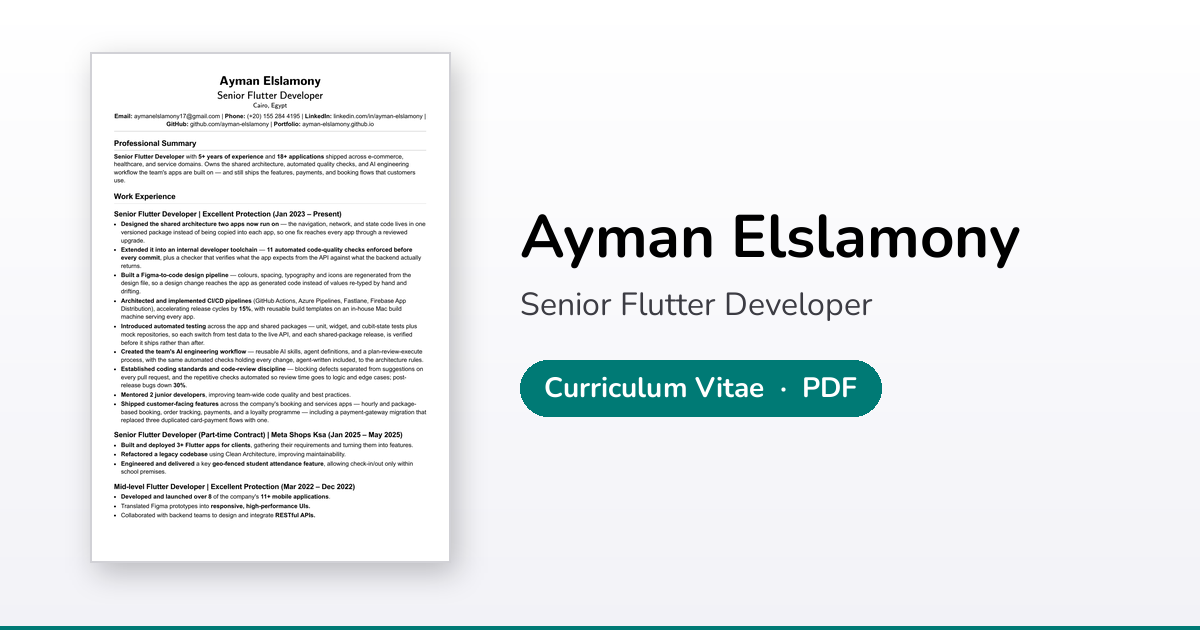
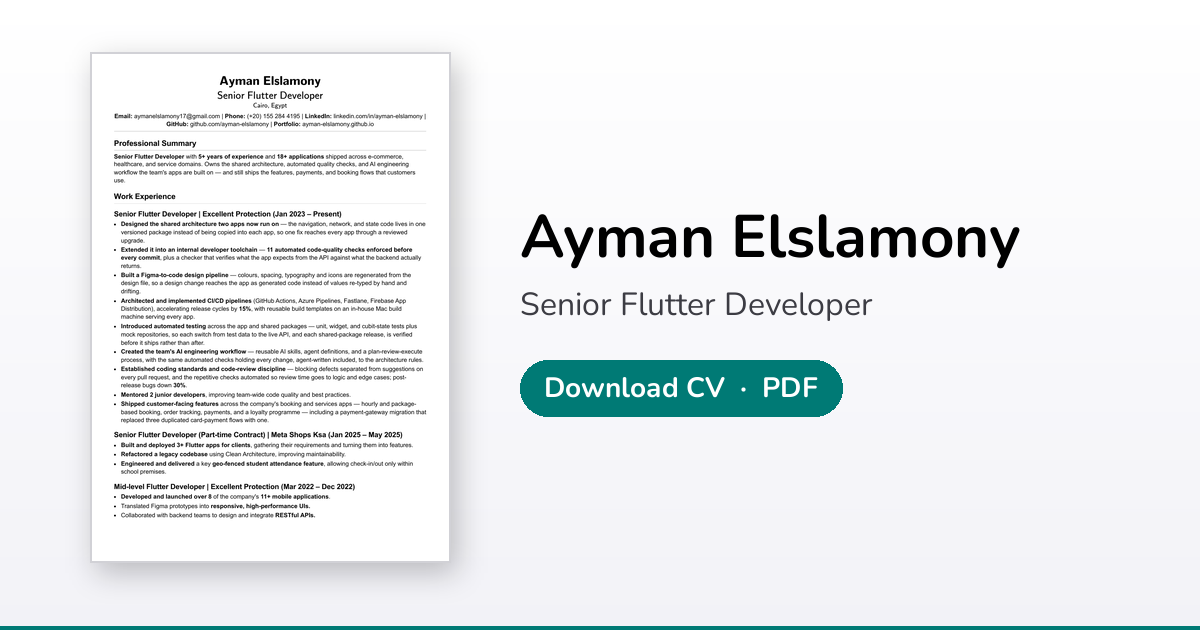
feat(seo): the /cv preview's label reads "Download CV · PDF"
"Curriculum Vitae" read formal and named the file a third way beside the
"Resume" button and the "CV (PDF)" card. The image URL's ?v= changes so
LinkedIn and WhatsApp fetch the new picture.

Changed region(s): [[0.4625, 0.573, 0.74, 0.6635]]

diff --git a/web/cv/index.html b/web/cv/index.html
@@ -9,13 +9,13 @@
 <meta property="og:title" content="CV (PDF) — Senior Flutter Developer">
 <meta property="og:description" content="Work experience, skills and projects in one PDF — ready to download and forward to your hiring team.">
 <meta name="twitter:description" content="Work experience, skills and projects in one PDF — ready to download and forward to your hiring team.">
-<meta property="og:image" content="https://ayman-elslamony.github.io/og-cv.png?v=2026-10-06">
+<meta property="og:image" content="https://ayman-elslamony.github.io/og-cv.png?v=2026-10-06b">
 <meta property="og:image:width" content="1200">
 <meta property="og:image:height" content="630">
 <meta property="og:site_name" content="Ayman Elslamony">
 <meta name="twitter:card" content="summary_large_image">
 <meta name="twitter:title" content="CV (PDF) — Senior Flutter Developer">
-<meta name="twitter:image" content="https://ayman-elslamony.github.io/og-cv.png?v=2026-10-06">
+<meta name="twitter:image" content="https://ayman-elslamony.github.io/og-cv.png?v=2026-10-06b">
 <meta http-equiv="refresh" content="2; url=Ayman_Elslamony_Senior_Flutter_Developer_CV.pdf">
 <!-- GA4 counts the visit before the redirect. The redirect waits for GA's callback, but never
      more than 1 s; with JS or GA blocked, the 2 s refresh above still leaves. -->

diff --git a/tools/make_banners.py b/tools/make_banners.py
@@ -111,7 +111,7 @@ def cv_card(path, size):
     d.text((left, 282), "Senior Flutter Developer", font=ImageFont.truetype(REGULAR, 32),
            fill=LIGHT_SECONDARY)
     pill_font = ImageFont.truetype(BOLD, 28)
-    label = "Curriculum Vitae  ·  PDF"
+    label = "Download CV  ·  PDF"
     tw = d.textbbox((0, 0), label, font=pill_font)[2]
     d.rounded_rectangle([left, 360, left + tw + 48, 416], radius=28, fill=LIGHT_PRIMARY)
     d.text((left + 24, 368), label, font=pill_font, fill=LIGHT_SURFACE)
